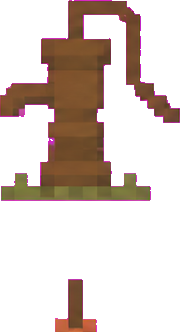
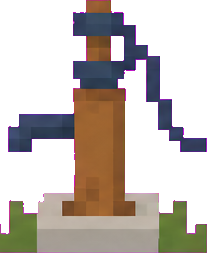
Village round 57: People = big tree, Projects = briefcase, wishing well; prune
- People district symbol is now the big community tree-with-a-bench
  (people-tree.png from village/village-civic-landmarks) — drawn large,
  the tallest badge, replacing the picnic mat.
- Projects symbol is the briefcase (village/village-infrastructure-
  connectors), replacing the workshop shed.
- wishing well (well.png) near the centre — tap it to drop a thank-you in;
  it's saved as a `gratitude`-tagged capture and the well sparkles.
- "only use from the master folder": removed every sprite whose source
  sheet is no longer there — barrel, scarecrow, planter box, seed sack,
  birdhouse, bicycle, produce basket, window box, corn stalk, cherry
  blossom, beach umbrella, leaf pile, sled, library, small-tree-sway x4,
  flower-sway x4. Re-sourced foot-bridge / water-pump / signpost / fence
  from infrastructure-connectors. Archive badge back to greenhouse.png.
  The swaying flower cluster and the small swaying path-tree are gone
  (tree-flower-sway-animation sheet no longer in the folder).

diff --git a/components/village/scene/VillageScene.tsx b/components/village/scene/VillageScene.tsx
@@ -7,19 +7,12 @@ import type { SeasonPalette } from '@/lib/village/palette'
 import type { Celestial as CelestialData } from '@/lib/village/sky'
 import { weatherMeta, type WeatherCondition } from '@/lib/village/weather'
 import { goToSection, goToPersonal, goToHousehold, openSmartHome } from '@/lib/utils/navigate'
-import { PlantShape, BuildingShape, DistrictLabel, EntityCallout, FeatureIcon, PondShape, BenchShape, FlowerBedShape, FenceShape, LampShape, MemoryMarker, VillagerShape, CatShape, MailboxShape, SignpostShape, BuntingShape, ClockTowerShape, SpriteCycle, Draggable, CoupleInteraction, CoupleBenchShape, SleepwearFigure, seasonTree, SMALL_TREE_SWAY_FRAMES, WALL, WALL_SHADOW, ROOF, ROOF_LIGHT, TRIM } from './shapes'
+import { PlantShape, BuildingShape, DistrictLabel, EntityCallout, FeatureIcon, PondShape, BenchShape, FlowerBedShape, FenceShape, LampShape, MemoryMarker, VillagerShape, CatShape, MailboxShape, SignpostShape, BuntingShape, ClockTowerShape, WishingWellShape, Draggable, CoupleInteraction, CoupleBenchShape, SleepwearFigure, seasonTree, WALL, WALL_SHADOW, ROOF, ROOF_LIGHT, TRIM } from './shapes'
+import { createClient } from '@/lib/supabase/client'
 
-// The flower-sprig sway (round 13, 2026-08-27; re-sourced round 51,
-// 2026-08-28, "all of these new animations elements") — now a real 4-frame
-// cycle from tree-flower-sway-animation-alpha.png, replacing the old 2-frame
-// flower-cluster crop. Same idiom as shapes.tsx's own TREE_SWAY_FRAMES,
-// module-level so it's one shared array reference.
-const FLOWER_SWAY_FRAMES = [
-  { src: '/village-assets/flower-sway-1.png', aspect: 352 / 140 },
-  { src: '/village-assets/flower-sway-2.png', aspect: 307 / 148 },
-  { src: '/village-assets/flower-sway-3.png', aspect: 346 / 140 },
-  { src: '/village-assets/flower-sway-4.png', aspect: 355 / 136 },
-]
+// The swaying flower cluster (round 13) and its FLOWER_SWAY_FRAMES were
+// removed round 57 — the tree-flower-sway-animation sheet they came from is
+// no longer in the master folder.
 import Sky from './Sky'
 import Clouds from './Clouds'
 import Ambient from './Ambient'
@@ -412,19 +405,18 @@ const DECOR_DEFAULTS: Record<string, { x: number; y: number }> = {
   // village-civic-landmarks-alpha.png) — stands back-left, its face shows
   // the current time of day.
   clockTower: { x: 92, y: GROUND_Y + 2 },
+  // The wishing well (round 57) — tap it to drop a thank-you in.
+  wishingWell: { x: 300, y: GROUND_Y + 34 },
   // Round 56 ("remake the village design to look the best with everything")
   // — a curated layer of the imported decor placed as real scenery instead
   // of leaving it all in the Inventory, spread to balance the composition
   // rather than pile onto the already-busy Growth Forest side. Draggable
   // like everything else.
   gazebo: { x: 648, y: GROUND_Y + 26 },
-  footBridgeScene: { x: 505, y: GROUND_Y + 35 },
-  scarecrowScene: { x: 60, y: GROUND_Y + 50 },
-  birdhouseScene: { x: 596, y: GROUND_Y + 6 },
-  barrelScene: { x: 333, y: GROUND_Y + 8 },
+  footBridgeScene: { x: 470, y: GROUND_Y + 34 },
   firewoodScene: { x: 458, y: GROUND_Y + 6 },
-  cherryBlossomScene: { x: 585, y: GROUND_Y + 34 },
-  wildflowerScene: { x: 625, y: GROUND_Y + 44 },
+  wildflowerScene: { x: 250, y: GROUND_Y + 42 },
+  waterPumpScene: { x: 560, y: GROUND_Y + 12 },
   sylvia: { x: 372, y: GROUND_Y + 8 },
   harry: { x: 428, y: GROUND_Y + 8 },
   somi: { x: 345, y: GROUND_Y + 20 },
@@ -761,6 +753,23 @@ export default function VillageScene({
   })
   const coupleTogether = life.together
   const interactPose = life.interactPose
+
+  // Wishing well (round 57) — a thank-you the user drops in is saved as a
+  // capture tagged `gratitude`, the same table Quick Add / Daily Reflection
+  // already write to, so it shows up in their world rather than vanishing.
+  const [wellGlow, setWellGlow] = useState(false)
+  async function submitGratitude() {
+    const text = window.prompt('Something you’re thankful for — drop it in the well:')?.trim()
+    if (!text) return
+    try {
+      const supabase = createClient()
+      const { data: { user } } = await supabase.auth.getUser()
+      if (user) await supabase.from('captures').insert({ text, user_id: user.id, domain: 'gratitude' })
+      window.dispatchEvent(new CustomEvent('4s:captures-changed'))
+    } catch { /* ignore — the well is a gesture, not a form */ }
+    setWellGlow(true)
+    setTimeout(() => setWellGlow(false), 1600)
+  }
 
   // Screen coordinates → the SVG's own 800×440 user space, so a drag tracks
   // correctly regardless of how large the scene is actually rendered on the
@@ -1314,13 +1323,15 @@ export default function VillageScene({
               </g>
             )
           })}
-          {/* One small lollipop tree that actually sways, tucked into the
-              same tree-line band (round 51, 2026-08-28) — a single moving
-              node, well inside Ambient.tsx's motion budget. */}
-          <g opacity={0.9}>
-            <ellipse cx={625} cy={GROUND_Y + 31} rx={7} ry={2} fill="var(--text)" opacity={0.14} />
-            <SpriteCycle frames={SMALL_TREE_SWAY_FRAMES} x={625} y={GROUND_Y + 29} height={26} periodSec={7.2} />
-          </g>
+          {/* One more seasonal tree in the path-side band (round 51's small
+              swaying lollipop tree was dropped round 57 — its source sheet,
+              tree-flower-sway-animation, is no longer in the folder). */}
+          {(() => { const spr = seasonTree('round', v.season); const h = 24, w = h * spr.aspect; return (
+            <g opacity={0.9}>
+              <ellipse cx={625} cy={GROUND_Y + 31} rx={w * 0.4} ry={2} fill="var(--text)" opacity={0.14} />
+              <image href={spr.src} x={625 - w / 2} y={GROUND_Y + 29 - h} width={w} height={h} style={{ imageRendering: 'pixelated' }} />
+            </g>
+          ) })()}
         </g>
       </g>
 
@@ -1363,6 +1374,11 @@ export default function VillageScene({
           <ClockTowerShape x={0} y={0} timeOfDay={v.timeOfDay} dark={dark} scale={itemScale('clockTower')} />
         </Draggable>
       ) })()}
+      {(() => { const p = decorPos('wishingWell'); return (
+        <Draggable x={p.x} y={p.y} id="wishingWell" arranging={arranging} draggingId={draggingId} onPointerDown={startDrag('wishingWell')} r={13}>
+          <WishingWellShape x={0} y={0} glow={wellGlow} onClick={!arranging ? submitGratitude : undefined} />
+        </Draggable>
+      ) })()}
 
       {/* Ten more real sprites, rounds 11–12 (2026-08-27, the user's own
           village-matching-expansion-pack, v2 with real alpha) — a gate
@@ -1392,15 +1408,13 @@ export default function VillageScene({
         // Sized up again round 35 (2026-08-27, "things like bus stop still
         // too small") — 18 units tall still read small at full-scene zoom.
         { id: 'busStop', title: 'A bus stop', href: 'bus-stop.png', w: 41.2, h: 26 },
-        // Round 56 curated scenery — see DECOR_DEFAULTS.
+        // Curated scenery (round 56, trimmed round 57 to sprites whose
+        // master-folder source still exists).
         { id: 'gazebo', title: 'A gazebo', href: 'gazebo.png', w: 31 * (249 / 259), h: 31 },
-        { id: 'footBridgeScene', title: 'A little bridge', href: 'foot-bridge.png', w: 13 * (269 / 179), h: 13 },
-        { id: 'scarecrowScene', title: 'A scarecrow', href: 'scarecrow.png', w: 17 * (234 / 284), h: 17 },
-        { id: 'birdhouseScene', title: 'A birdhouse', href: 'birdhouse.png', w: 16 * (163 / 270), h: 16 },
-        { id: 'barrelScene', title: 'A barrel', href: 'barrel.png', w: 11 * (166 / 200), h: 11 },
+        { id: 'footBridgeScene', title: 'A little bridge', href: 'foot-bridge.png', w: 15 * (256 / 155), h: 15 },
         { id: 'firewoodScene', title: 'Firewood', href: 'firewood.png', w: 8 * (255 / 160), h: 8 },
-        { id: 'cherryBlossomScene', title: 'Cherry blossom', href: 'cherry-blossom.png', w: 22 * (241 / 321), h: 22 },
         { id: 'wildflowerScene', title: 'Wildflowers', href: 'wildflower-strip.png', w: 15 * (512 / 341), h: 15 },
+        { id: 'waterPumpScene', title: 'A water pump', href: 'water-pump.png', w: 15 * (207 / 253), h: 15 },
         // Sized up round 29 ("fix the sizing of everything, try to scale
         // but do not make anything too tiny") — these four read noticeably
         // smaller than everything else in the scene.
@@ -1480,28 +1494,11 @@ export default function VillageScene({
         )
       })}
 
-      {/* Two more real sprites, round 13 (2026-08-27,
-          village-animations-complete.zip) — a swaying flower cluster and a
-          hanging paper lantern that actually lights up after dark. Both
-          draggable via the same decorPos/DECOR_DEFAULTS mechanism as the
-          block above, just rendered separately since neither fits the
-          generic static-<image> loop (one animates, one swaps by `dark`). */}
-      {(() => {
-        const p0 = decorPos('flowerCluster')
-        return (
-          <g transform={`translate(${p0.x} ${p0.y})`} opacity={0.9}
-            onPointerDown={startDrag('flowerCluster')} style={{ cursor: arranging ? (draggingId === 'flowerCluster' ? 'grabbing' : 'grab') : undefined }}>
-            <title>Flowers by the path</title>
-            <ellipse cx={0} cy={2.4} rx={6} ry={1.4} fill="var(--text)" opacity={0.14} />
-            <SpriteCycle frames={FLOWER_SWAY_FRAMES} x={0} y={2} height={6.5} periodSec={4.5} />
-            {arranging && (
-              <rect x={-6} y={-11.6} width={12} height={15.6} rx={4}
-                fill="none" stroke="var(--gold)" strokeWidth={1} strokeDasharray="3 3"
-                opacity={draggingId === 'flowerCluster' ? 0.9 : 0.4} />
-            )}
-          </g>
-        )
-      })()}
+      {/* The hanging paper lantern that lights up after dark — draggable via
+          the same decorPos/DECOR_DEFAULTS mechanism, rendered separately
+          since it swaps by `dark`. (The swaying flower cluster that used to
+          live here was dropped round 57 — its source sheet,
+          tree-flower-sway-animation, is no longer in the master folder.) */}
       {(() => {
         const p0 = decorPos('paperLantern')
         const w = 5.7, h = 14 // 141×345 source, same aspect ratio

diff --git a/components/village/scene/shapes.tsx b/components/village/scene/shapes.tsx
@@ -91,15 +91,8 @@ export function seasonTree(kind: TreeKind, season: VillageState['season']) {
   return SEASON_TREE[kind][season]
 }
 
-// A small lollipop tree's own 4-frame sway (round 51, 2026-08-28) — from
-// tree-flower-sway-animation-alpha.png, a lighter companion to the big
-// round-tree sway above for the path-side ambient tree in VillageScene.
-export const SMALL_TREE_SWAY_FRAMES = [
-  { src: '/village-assets/small-tree-sway-1.png', aspect: 148 / 287 },
-  { src: '/village-assets/small-tree-sway-2.png', aspect: 209 / 288 },
-  { src: '/village-assets/small-tree-sway-3.png', aspect: 148 / 289 },
-  { src: '/village-assets/small-tree-sway-4.png', aspect: 188 / 288 },
-]
+// SMALL_TREE_SWAY_FRAMES removed round 57 — its source sheet,
+// tree-flower-sway-animation-alpha.png, is no longer in the master folder.
 
 // Sylvia and Harry in sleepwear (round 51, 2026-08-28) — from
 // sylvia-harry-sleepwear-alpha.png, shown standing near Home only when it's
@@ -458,6 +451,27 @@ export function ClockTowerShape({ x, y, timeOfDay, dark = false, scale = 1 }: {
       {dark && <circle cy={-h * 0.62} r={7} fill="var(--amber)" opacity={0.3} filter="url(#vglow)" />}
       <image href={CLOCK_SRC[timeOfDay] ?? CLOCK_SRC.day} x={-w / 2} y={-h} width={w} height={h}
         style={{ imageRendering: 'pixelated' }} />
+    </g>
+  )
+}
+
+// The wishing well (round 57, 2026-08-28, "wishing well is [a] thank you
+// well where we can submit thanks") — well.png from village/village-civic-
+// landmarks-alpha.png. Tapping it opens a prompt to drop a thank-you in;
+// the caller saves it (see VillageScene's onGratitude).
+export function WishingWellShape({ x, y, onClick, glow = false }: { x: number; y: number; onClick?: () => void; glow?: boolean }) {
+  const handleClick = onClick ? (e: React.MouseEvent) => { e.stopPropagation(); onClick() } : undefined
+  const w = 20, h = 20 // 330x322 source, ~1:1
+  return (
+    <g transform={`translate(${x} ${y})`}>
+      {onClick && <circle cx={0} cy={-h / 2} r={14} fill="transparent" style={{ pointerEvents: 'all' }} onClick={handleClick} />}
+      <g onClick={handleClick} className={onClick ? 'village-entity' : undefined} style={{ cursor: onClick ? 'pointer' : undefined }}>
+        <title>Drop a thank-you in the well</title>
+        <ellipse cx={0} cy={1.5} rx={8} ry={2} fill="var(--text)" opacity={0.13} />
+        {glow && <circle cx={0} cy={-h * 0.55} r={11} fill="var(--amber)" opacity={0.4} filter="url(#vglow)" className="village-sparkle" />}
+        <image href="/village-assets/well.png" x={-w / 2} y={-h} width={w} height={h}
+          style={{ imageRendering: 'pixelated' }} />
+      </g>
     </g>
   )
 }
@@ -1060,12 +1074,14 @@ function DistrictArt({ kind, dark }: { kind: DistrictIconKind; dark: boolean }) 
       // "update the village with these elements") — workshop.png now shows real tools (a
       // hammer and shovel) hung on the wall, from village-new-structures-alpha.png, a better
       // match for "Projects" than the older plain-door crop it replaces.
+      // Round 57 (2026-08-28, "projects are tracked by...") — the briefcase from
+      // village/village-infrastructure-connectors-alpha.png. "What you're working on"
+      // reads more directly as a briefcase than the workshop shed (rounds 11-56) did.
       return (
         <g>
-          <ellipse cx={0} cy={2} rx={20} ry={2.9} fill="var(--text)" opacity={0.17} />
-          <image href="/village-assets/workshop.png" x={-19.4} y={-30} width={38.9} height={30}
+          <ellipse cx={0} cy={2} rx={14} ry={2.4} fill="var(--text)" opacity={0.17} />
+          <image href="/village-assets/briefcase.png" x={-14} y={-20} width={28} height={28 / (189 / 136)}
             style={{ imageRendering: 'pixelated' }} />
-          {dark && <circle cx={5} cy={-19} r={8.75} fill="var(--amber)" opacity={0.26} filter="url(#vglow)" />}
         </g>
       )
     case 'book': // Archive — a real library building now (round 45, 2026-08-28, "update the
@@ -1078,7 +1094,9 @@ function DistrictArt({ kind, dark }: { kind: DistrictIconKind; dark: boolean }) 
       return (
         <g>
           <ellipse cx={0} cy={2} rx={17.2} ry={2.75} fill="var(--text)" opacity={0.17} />
-          <image href="/village-assets/library.png" x={-17.2} y={-30} width={34.4} height={30}
+          {/* Back to greenhouse.png round 57 — library.png's source sheet
+              (village-social-town-spaces) is no longer in the master folder. */}
+          <image href="/village-assets/greenhouse.png" x={-17.2} y={-30} width={34.4} height={30}
             style={{ imageRendering: 'pixelated' }} />
           {dark && <circle cx={0} cy={-16.25} r={10} fill="var(--amber)" opacity={0.22} filter="url(#vglow)" />}
         </g>
@@ -1100,20 +1118,15 @@ function DistrictArt({ kind, dark }: { kind: DistrictIconKind; dark: boolean }) 
           {dark && <circle cx={6} cy={-14} r={5} fill="var(--amber)" opacity={0.5} filter="url(#vglow)" />}
         </g>
       )
-    case 'people': // People — a picnic mat, not a second Sylvia/Harry (round 14 fix,
-      // 2026-08-27 — round 13 briefly used the pack's real couple-on-a-bench sprite here, but
-      // there should only ever be ONE Sylvia and ONE Harry in the village, and the real ones
-      // already stand by Home; a second rendering of them sitting on a district badge was
-      // exactly the kind of duplicate-character confusion the "two houses" fix spent a whole
-      // round eliminating for buildings. Bench (rounds 14-39) replaced with a picnic mat (round
-      // 40, 2026-08-27, "make people symbol a picnic mat or community center") — picnic-mat.png,
-      // cropped from village-decor-lanterns-alpha.png; "a spot to gather" reads more like a
-      // community/social space than a single empty bench did. The real People-corner bench
-      // (VillageScene's peopleCorner prop) is unrelated scenery, unchanged.
+    case 'people': // People — the big community tree (round 57, 2026-08-28, "make people
+      // symbol the big tree (make bigger)") — people-tree.png, the gnarled tree-with-a-
+      // bench-round-its-base from village/village-civic-landmarks-alpha.png. A gathering
+      // tree reads as "the people in your life" far better than the picnic mat (rounds
+      // 40-56) it replaces, and it's drawn large on purpose — the tallest district symbol.
       return (
         <g>
-          <ellipse cx={0} cy={3} rx={10} ry={1.8} fill="var(--text)" opacity={0.16} />
-          <image href="/village-assets/picnic-mat.png" x={-10} y={-8.4} width={20} height={16.8}
+          <ellipse cx={0} cy={3} rx={13} ry={2.2} fill="var(--text)" opacity={0.17} />
+          <image href="/village-assets/people-tree.png" x={-18} y={-40} width={36} height={40}
             style={{ imageRendering: 'pixelated' }} />
         </g>
       )

diff --git a/lib/village/assetLibrary.ts b/lib/village/assetLibrary.ts
@@ -69,28 +69,17 @@ export const ASSET_LIBRARY: AssetLibraryItem[] = [
   { key: 'well', label: 'Well', href: 'well.png', aspect: 330 / 322, h: 16 },
   { key: 'noticeBoard', label: 'Notice board', href: 'notice-board.png', aspect: 330 / 308, h: 14 },
 
-  // Round 54 (2026-08-28, "yes import all") — the placeable single props
-  // from the master folder's decor sheets (village-essential-connectors /
-  // -new-decor-elements / -seasonal-decor / -nature-resting-spaces). Outfit,
-  // postcard, path-tile and merged-multi-item crops are left out, same rule
-  // as the header note. Heights tuned to this scene's own relative scale.
-  { key: 'barrel', label: 'Barrel', href: 'barrel.png', aspect: 166 / 200, h: 12 },
-  { key: 'footBridge', label: 'Foot bridge', href: 'foot-bridge.png', aspect: 269 / 179, h: 11 },
-  { key: 'scarecrow', label: 'Scarecrow', href: 'scarecrow.png', aspect: 234 / 284, h: 18 },
-  { key: 'planterBox', label: 'Planter box', href: 'planter-box.png', aspect: 237 / 211, h: 10 },
-  { key: 'seedSack', label: 'Seed sack', href: 'seed-sack.png', aspect: 172 / 203, h: 10 },
-  { key: 'woodSignpost', label: 'Wooden signpost', href: 'wood-signpost.png', aspect: 177 / 210, h: 13 },
-  { key: 'birdhouse', label: 'Birdhouse', href: 'birdhouse.png', aspect: 163 / 270, h: 18 },
-  { key: 'waterPump', label: 'Water pump', href: 'water-pump.png', aspect: 180 / 332, h: 17 },
-  { key: 'picketFence', label: 'Picket fence', href: 'picket-fence.png', aspect: 253 / 300, h: 12 },
-  { key: 'bicycle', label: 'Bicycle', href: 'bicycle.png', aspect: 299 / 285, h: 13 },
-  { key: 'produceBasket', label: 'Produce basket', href: 'produce-basket.png', aspect: 300 / 318, h: 11 },
-  { key: 'windowBox', label: 'Window box', href: 'window-box.png', aspect: 227 / 256, h: 9 },
-  { key: 'cornStalk', label: 'Corn stalk', href: 'corn-stalk.png', aspect: 99 / 150, h: 13 },
-  { key: 'cherryBlossom', label: 'Cherry blossom', href: 'cherry-blossom.png', aspect: 241 / 321, h: 20 },
-  { key: 'beachUmbrella', label: 'Beach umbrella', href: 'beach-umbrella.png', aspect: 342 / 351, h: 18 },
-  { key: 'leafPile', label: 'Leaf pile', href: 'leaf-pile.png', aspect: 238 / 120, h: 6 },
-  { key: 'sled', label: 'Sled', href: 'sled.png', aspect: 300 / 354, h: 10 },
+  // Round 54 imports, trimmed round 57 ("only use from [the master folder]")
+  // — the essential-connectors / new-decor / seasonal-decor sheets those
+  // were cropped from are no longer in the folder, so those items are gone.
+  // What survives has a source still present: infrastructure-connectors
+  // (bridge / pump / signpost / fence), nature-resting-spaces (gazebo,
+  // wildflowers), structures-decor-paths (arbor), left-behind-objects
+  // (firewood).
+  { key: 'footBridge', label: 'Foot bridge', href: 'foot-bridge.png', aspect: 256 / 155, h: 10 },
+  { key: 'woodSignpost', label: 'Wooden signpost', href: 'wood-signpost.png', aspect: 145 / 348, h: 15 },
+  { key: 'waterPump', label: 'Water pump', href: 'water-pump.png', aspect: 207 / 253, h: 15 },
+  { key: 'picketFence', label: 'Picket fence', href: 'picket-fence.png', aspect: 183 / 155, h: 11 },
   { key: 'gazebo', label: 'Gazebo', href: 'gazebo.png', aspect: 249 / 259, h: 26 },
   { key: 'wildflowerStrip', label: 'Wildflowers', href: 'wildflower-strip.png', aspect: 512 / 341, h: 9 },
   // Round 54 batch 2 — arbor (village-structures-decor-paths), firewood
